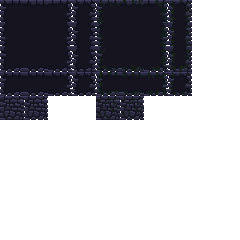
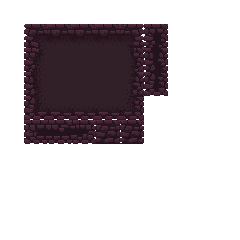
Updates TileSet and TileMap

diff --git a/regalia/include/Constants.h b/regalia/include/Constants.h
@@ -99,12 +99,13 @@ namespace Play {
 	};
 
 	const std::vector<TileMapData> TileMaps = {
-		{ "assets/map/01.txt" },
+		//{ "assets/map/01.txt" },
 		//{ "assets/map/02.txt" },
 		//{ "assets/map/03.txt" },
 		//{ "assets/map/04.txt" },
 		//{ "assets/map/05.txt" }
 		//{ "assets/map/06.txt" }
+		{ "assets/map/07.txt" }
 	};
 }
 

diff --git a/regalia/src/TileMap.cpp b/regalia/src/TileMap.cpp
@@ -45,7 +45,6 @@ void TileMap::Load(const std::string& file) {
 				getline(fs, line, ',');
 				auto idx = Pos(col, row, layer);
 				tileMatrix[idx] = std::stoi(line);
-				tileMatrix[idx]--;
 			}
 		}
 	}
